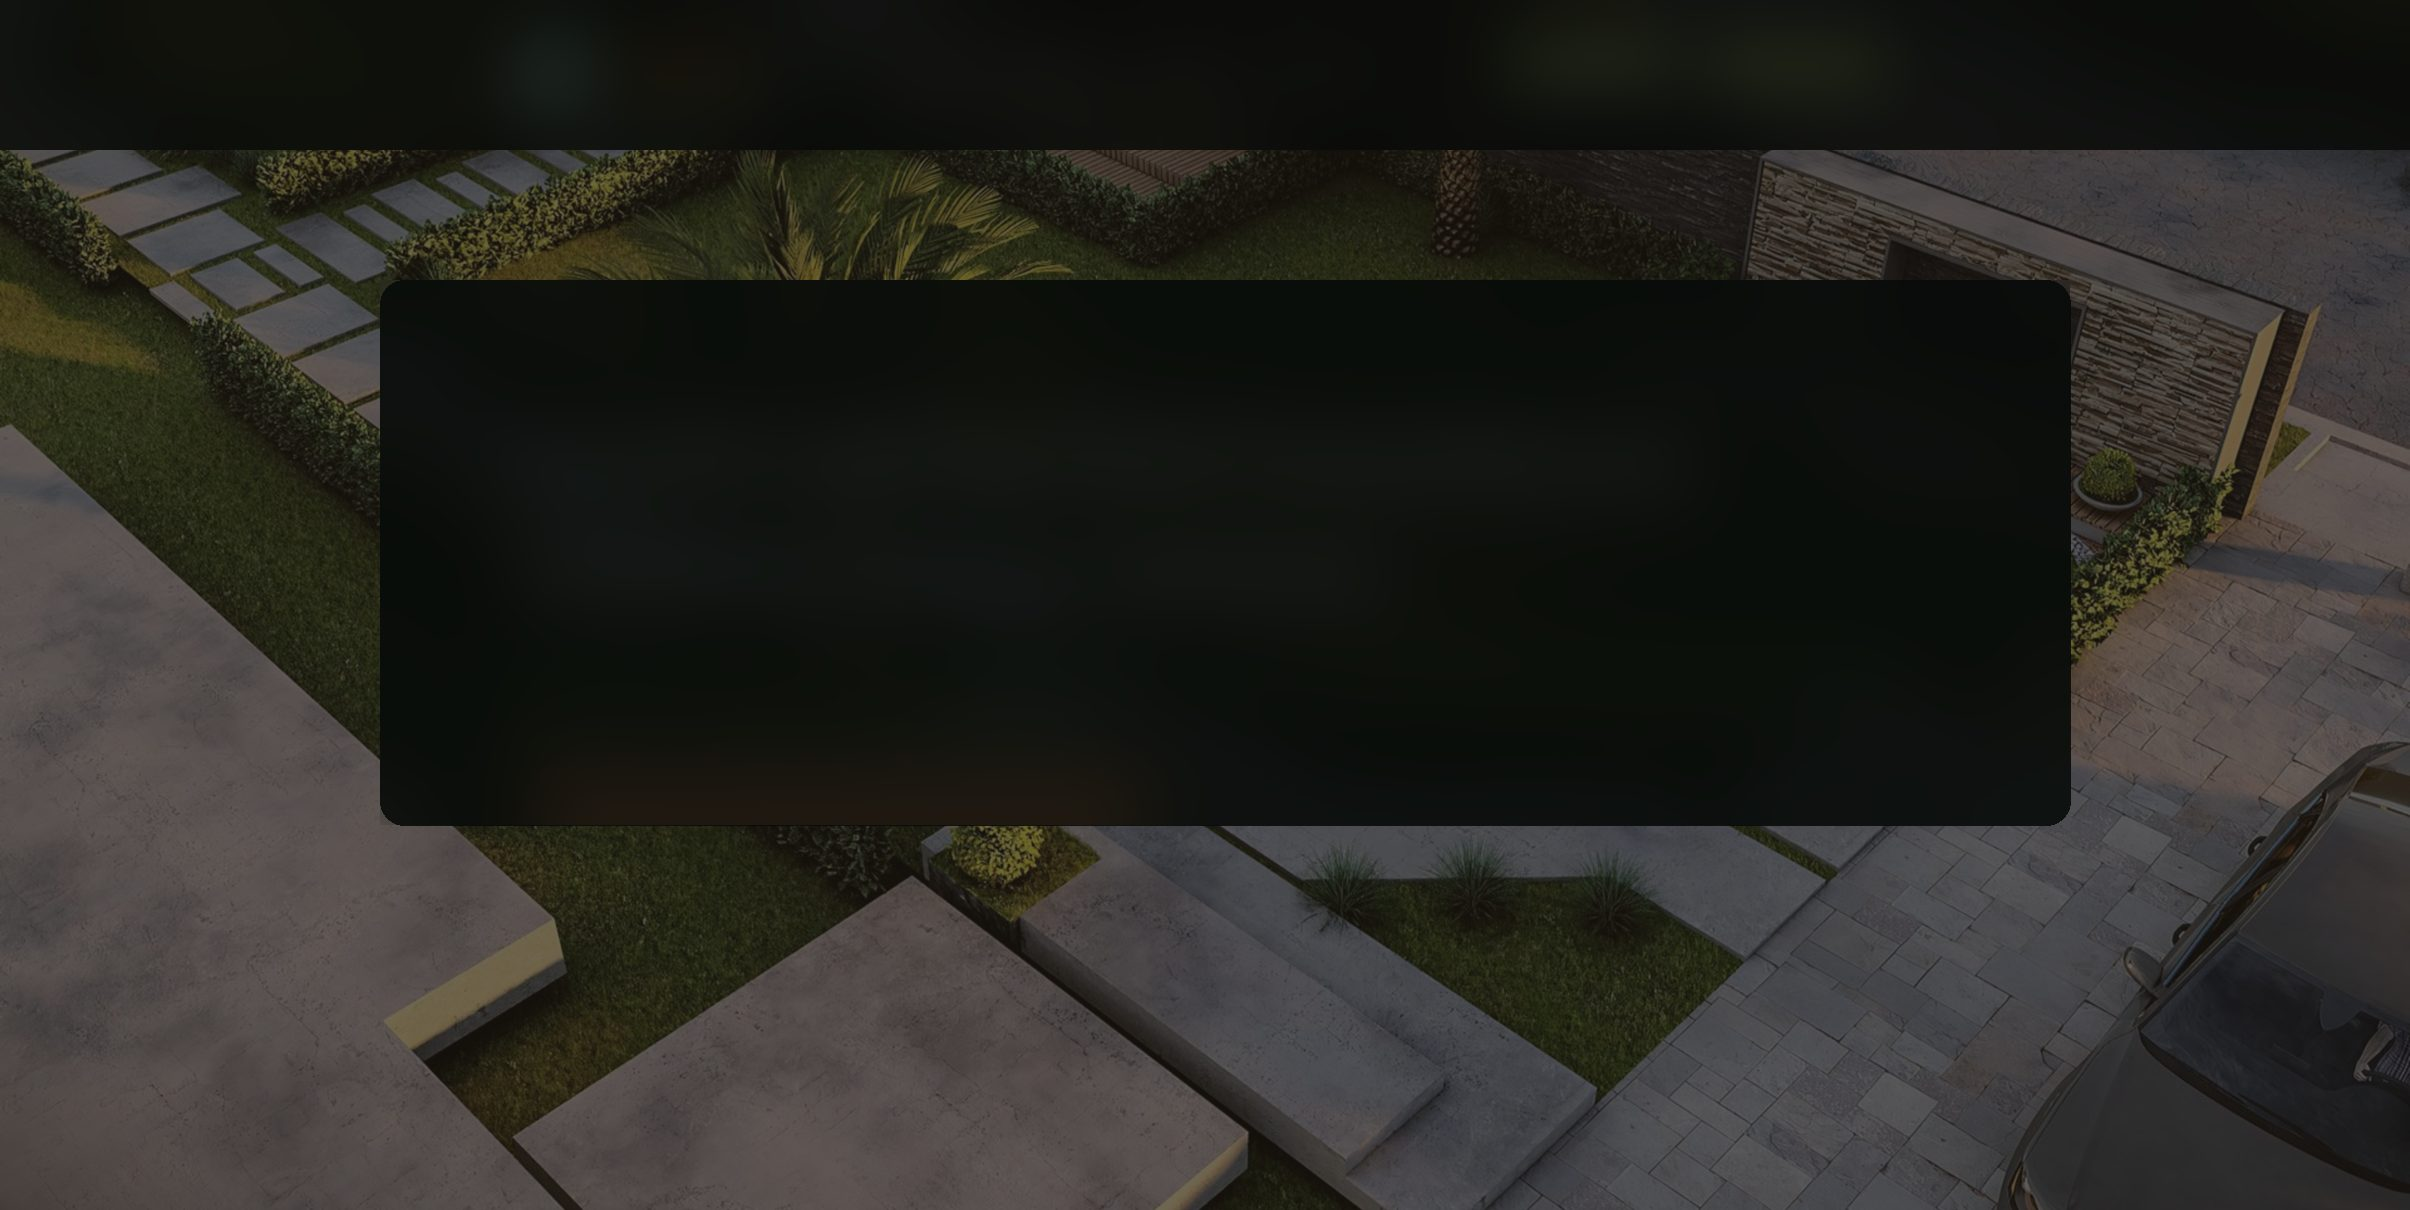
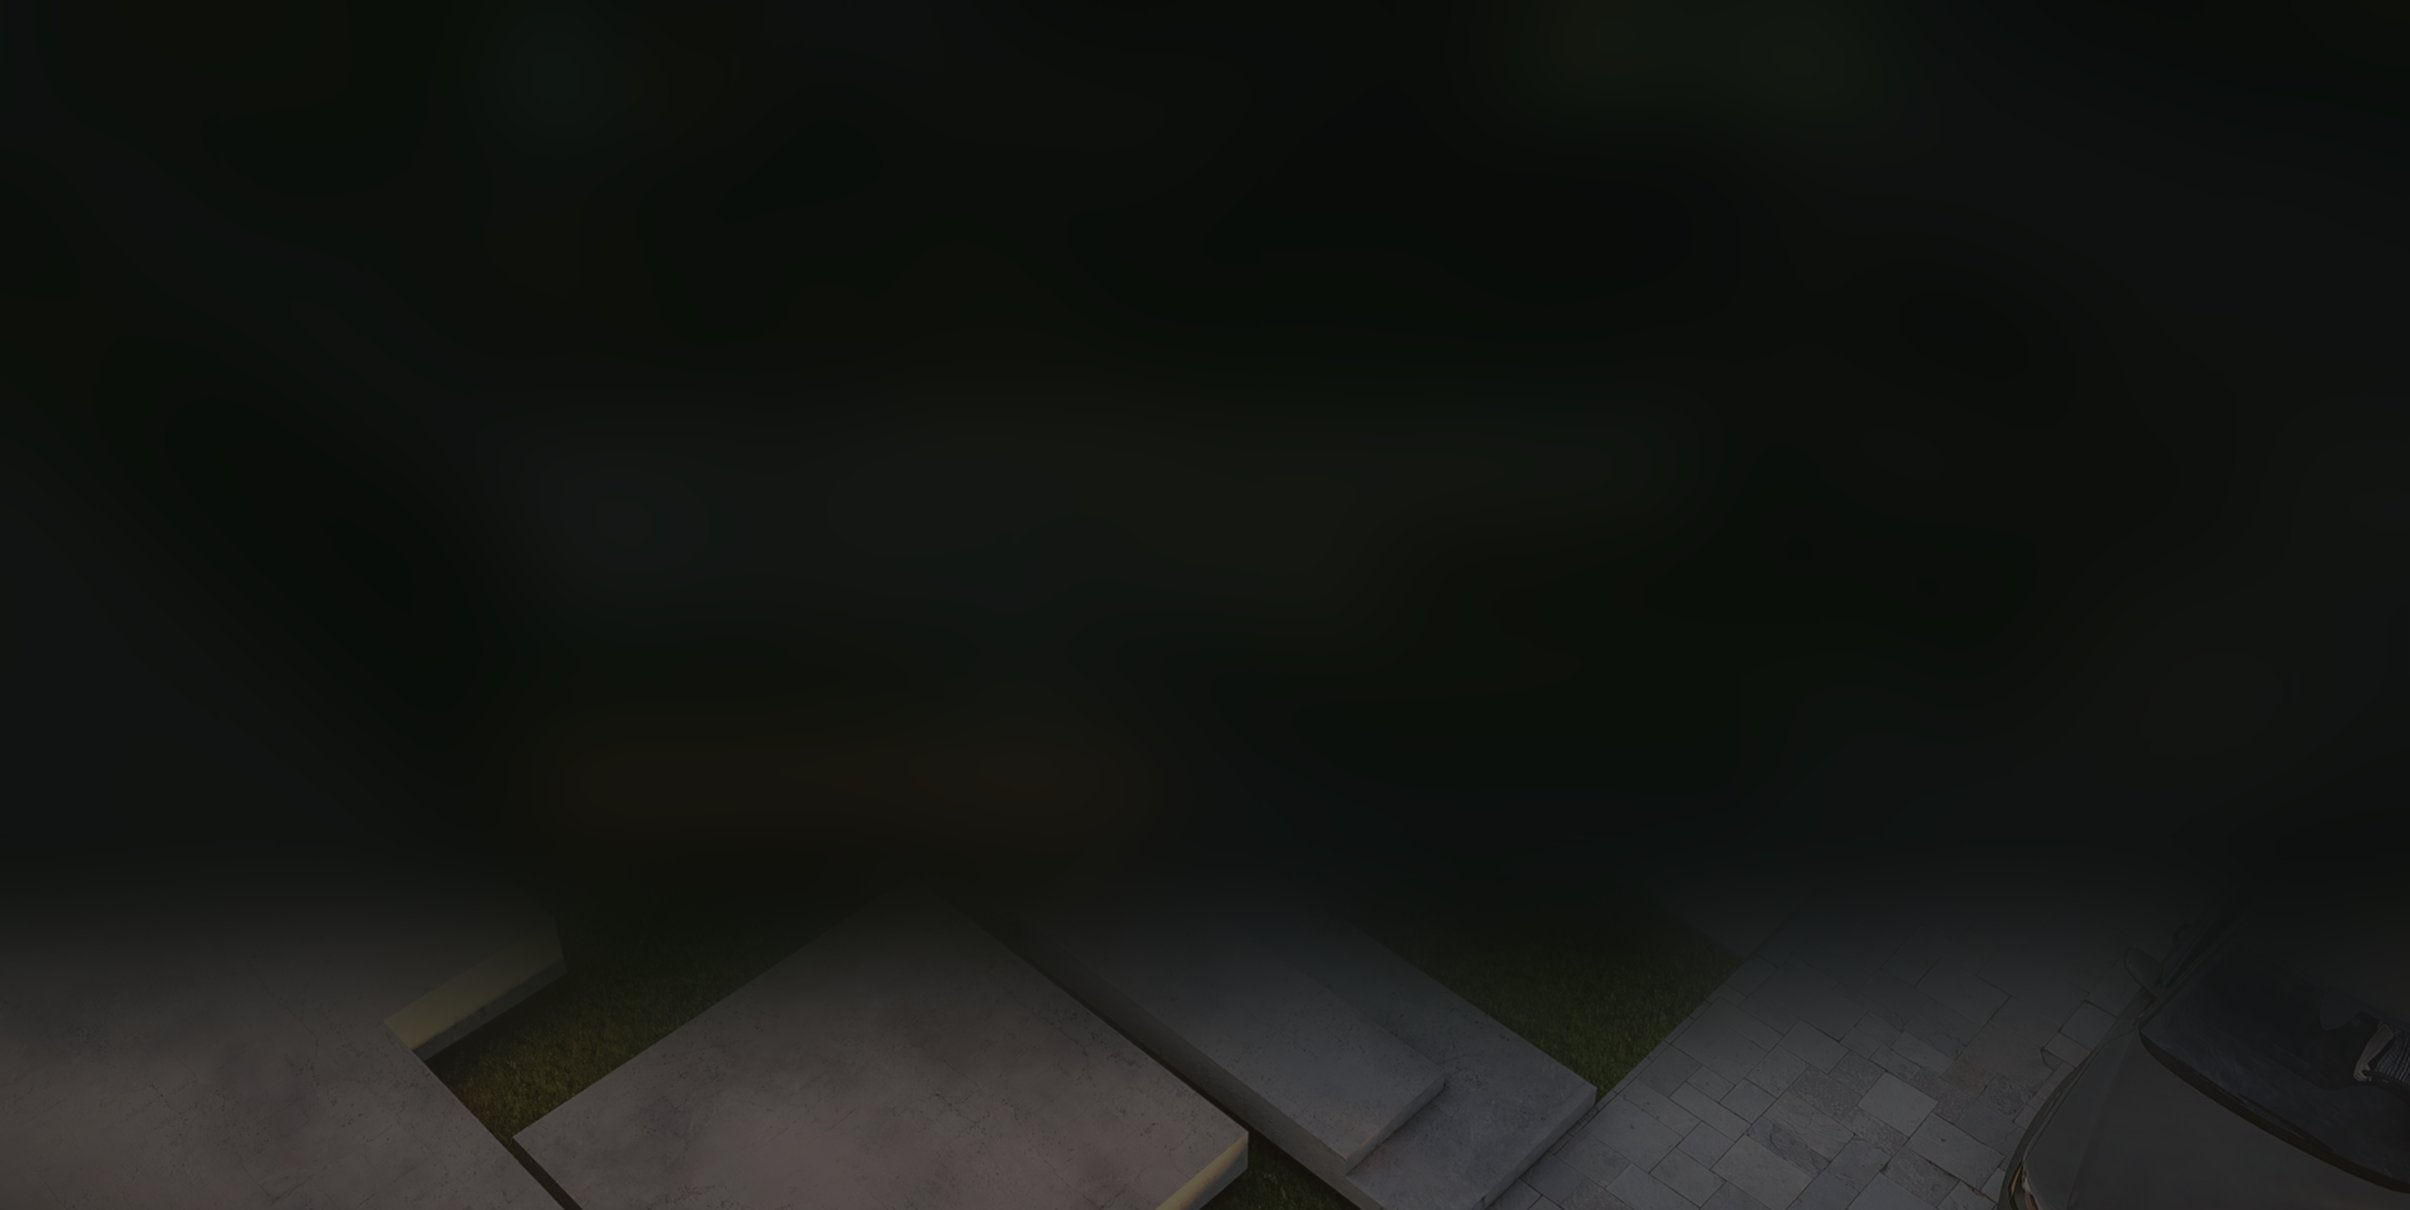
Clean up hero image, phone number, and site copy
Rebuild the hero background with a smooth full-bleed vignette instead
of a hard-edged scrim box, fully hiding the original template's baked-in
text with no visible seams or ghosting. Swap the phone placeholder for
a clearer mobile-format number, and tighten wording across the hero,
why-choose-us, CTA band, who-we-are, and final CTA sections.

diff --git a/index.html b/index.html
@@ -4,7 +4,7 @@
 <meta charset="UTF-8" />
 <meta name="viewport" content="width=device-width, initial-scale=1.0" />
 <title>Oasis Landscapes &middot; Perth | Landscape Design &amp; Construction</title>
-<meta name="description" content="Oasis Landscapes of Perth — full-service landscape design, construction, and maintenance. See your new yard before a shovel hits the dirt. Schedule your landscape meeting today." />
+<meta name="description" content="Oasis Landscapes of Perth — full-service landscape design and construction. See your new yard before a shovel hits the dirt. Schedule your landscape meeting today." />
 <link rel="preconnect" href="https://fonts.googleapis.com" />
 <link rel="preconnect" href="https://fonts.gstatic.com" crossorigin />
 <link href="https://fonts.googleapis.com/css2?family=Baloo+2:wght@500;600;700;800&family=Inter:wght@400;500;600;700&display=swap" rel="stylesheet" />
@@ -37,7 +37,7 @@
           <li><a href="#contact">Contact</a></li>
         </ul>
         <div class="nav__actions">
-          <a href="tel:0861234567" class="pill pill--phone">(08) 6123 4567</a>
+          <a href="tel:0400000000" class="pill pill--phone">0400 000 000</a>
           <a href="#contact" class="pill pill--apply">Apply Online</a>
         </div>
       </nav>
@@ -46,7 +46,7 @@
 
   <div class="hero__inner container">
     <h1>Landscaping that transforms outdoor living spaces.</h1>
-    <p class="hero__sub">See exactly what your yard will look like, and how much time and money you&rsquo;ll save, all before a shovel hits the dirt.</p>
+    <p class="hero__sub">See exactly what your yard will look like &mdash; and how much time and money you&rsquo;ll save &mdash; before a shovel hits the dirt.</p>
     <a href="#quote" class="btn btn--orange">Schedule your landscape meeting</a>
   </div>
 </section>
@@ -108,7 +108,7 @@
 <section class="choose">
   <div class="container">
     <h2>Why Choose Us</h2>
-    <p class="section-sub">At Oasis Landscapes of Perth, we pride ourselves on providing exceptional customer service and quality workmanship. We use only the highest-quality materials and latest techniques to ensure that every project is completed to perfection. Let us help you create a beautiful outdoor space that you&rsquo;ll be proud to call your own. Contact us today to schedule a consultation with one of our expert designers.</p>
+    <p class="section-sub">At Oasis Landscapes of Perth, we pride ourselves on exceptional service and quality workmanship &mdash; using only the best materials and techniques so every project is finished to perfection. Let us help you create an outdoor space you&rsquo;ll be proud to call your own.</p>
     <span class="divider"></span>
     <div class="choose__grid">
       <article class="choose-card">
@@ -144,7 +144,7 @@
 <!-- ============ CTA BAND ============ -->
 <section class="cta-band" id="quote">
   <div class="container">
-    <p>Revamping your outdoor space doesn&rsquo;t have to be daunting. All it takes is one design meeting with our team to share your ideas and to see our done-for-you landscapes. Whether you&rsquo;re looking for a subtle touch or something to make your neighbours talk, we&rsquo;re ready.</p>
+    <p>Revamping your outdoor space doesn&rsquo;t have to be daunting. One design meeting is all it takes to share your ideas and see our done-for-you landscapes &mdash; whether you want a subtle refresh or something the neighbours will talk about.</p>
     <a href="#contact" class="btn btn--orange">Schedule your landscape meeting</a>
   </div>
 </section>
@@ -180,8 +180,8 @@
   <div class="container who__inner">
     <div class="who__copy">
       <h2>Who Are We?</h2>
-      <p>Oasis Landscapes of Perth is a full-service landscaping company dedicated to creating stunning outdoor spaces for our clients. Our team of experts specialises in done-for-you landscaping, installation, and maintenance services that will transform any property into a beautiful oasis.</p>
-      <p>We understand that every client has unique needs and desires when it comes to their outdoor space. That&rsquo;s why we take the time to listen to your vision and work closely with you throughout the entire process to ensure that we bring your dream into reality. Whether you&rsquo;re looking for a serene water feature or an elegant hardscape, our team has the expertise and creativity to make it happen.</p>
+      <p>Oasis Landscapes of Perth is a full-service landscaping company creating stunning outdoor spaces for our clients. Our experts handle landscaping, installation, and maintenance &mdash; transforming any property into a beautiful oasis.</p>
+      <p>Every outdoor space is different, so we take the time to listen to your vision and work closely with you from concept to completion. Whether you want a serene water feature or an elegant hardscape, our team has the expertise to make it happen.</p>
     </div>
     <div class="who__media">
       <img src="assets/img/who-we-are.jpg" alt="Modern Perth home with landscaped entrance" />
@@ -199,7 +199,7 @@
     <div class="final-cta__copy">
       <h2>Turn Your Outdoor Space Into an Oasis!</h2>
       <span class="divider divider--left"></span>
-      <p>When you schedule a landscape meeting with our team, we&rsquo;ll share our top landscape designs and determine what is the best match for your outdoor space.</p>
+      <p>Schedule a landscape meeting and we&rsquo;ll walk you through our top designs to find the best match for your space.</p>
       <a href="#contact" class="btn btn--green">Schedule your landscape meeting</a>
     </div>
   </div>
@@ -219,7 +219,7 @@
     <div class="footer__col">
       <h4>Contact Information</h4>
       <ul class="footer__contact">
-        <li><i class="fa-solid fa-phone"></i> Phone: <a href="tel:0861234567">(08) 6123 4567</a></li>
+        <li><i class="fa-solid fa-phone"></i> Phone: <a href="tel:0400000000">0400 000 000</a></li>
         <li><i class="fa-solid fa-clock"></i> Monday to Friday: <span>9AM to 5PM</span></li>
         <li><i class="fa-solid fa-clock"></i> Saturday &amp; Sunday: <span>Closed</span></li>
       </ul>
